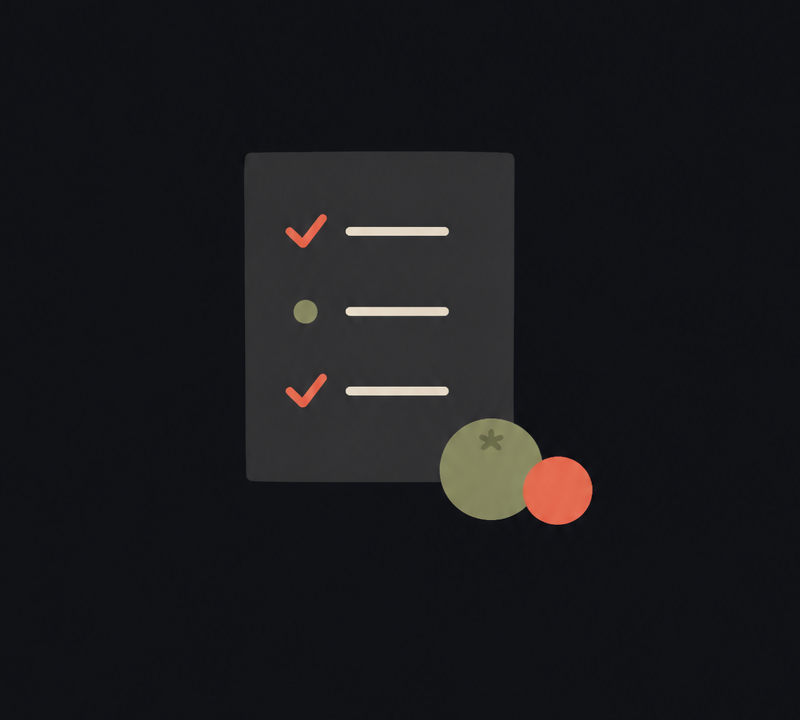
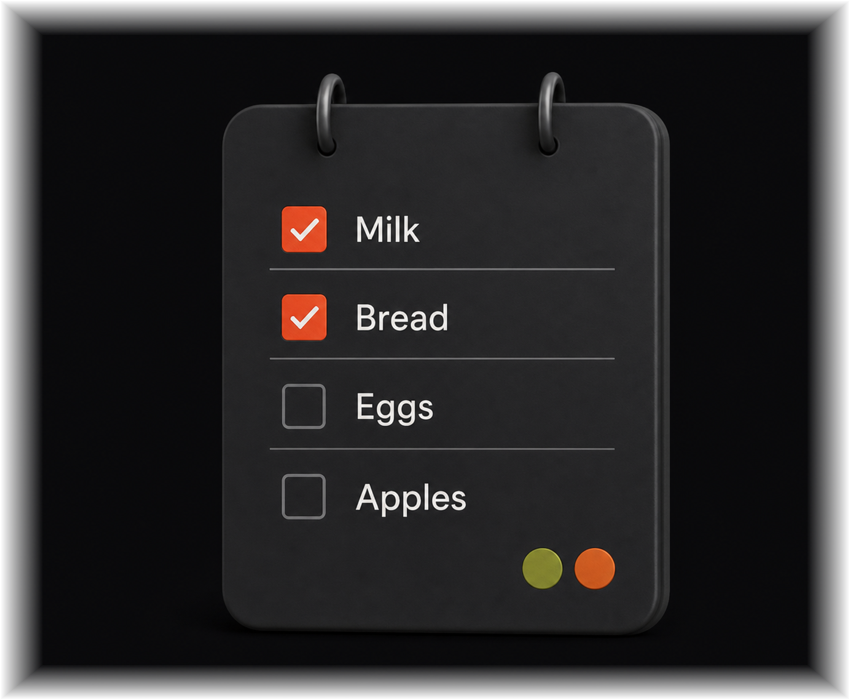
fix(onboarding): mirror approved artwork in dark mode

diff --git a/apps/stokit-v2/app/(auth)/onboarding.tsx b/apps/stokit-v2/app/(auth)/onboarding.tsx
@@ -18,7 +18,7 @@ import { ONBOARDING_SLIDES } from '../../constants/onboarding';
 import { OnboardingPage, PageDots } from '../../components/onboarding/OnboardingKit';
 import { authBackground } from '../../components/auth/AuthKit';
 
-const DARK_ONBOARDING_BACKGROUNDS = ['#0B0C10', '#101115', '#101216'];
+const DARK_ONBOARDING_BACKGROUNDS = ['#06070C', '#0B0B0D', '#0B0C10'];
 
 export default function OnboardingScreen() {
   const { colors, isDark } = useTheme();

diff --git a/apps/stokit-v2/constants/version.ts b/apps/stokit-v2/constants/version.ts
@@ -2,4 +2,4 @@
  * Increment this OTA number before every OTA publish.
  * Bump this once per OTA push — the only place the sequence number lives. 
  */
-export const OTA_SEQ = 358;
+export const OTA_SEQ = 359;
